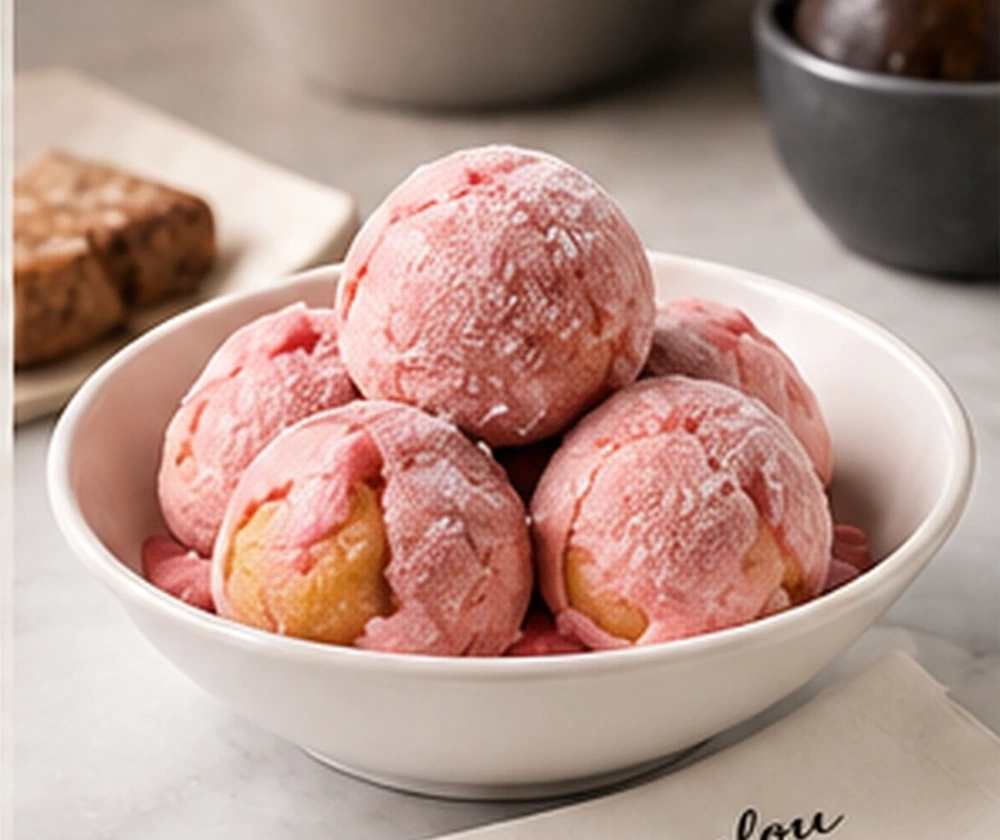
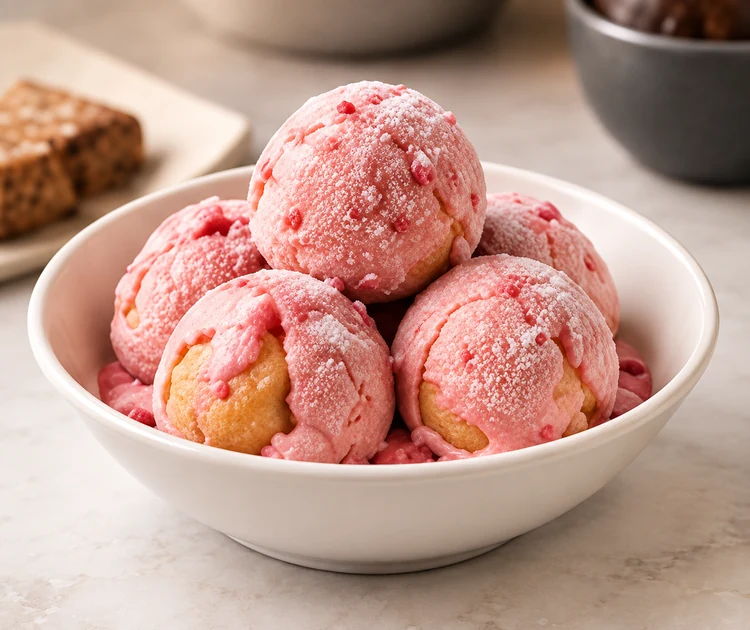
Replace Chilly and Lotus base preview images

diff --git a/app/src/screens/Configurator.tsx b/app/src/screens/Configurator.tsx
@@ -31,6 +31,14 @@ export function Configurator() {
   const chocObj = chocolates.find((c) => c.id === cfg.choc) ?? null;
   const baseObj = bases.find((b) => b.id === cfg.base) ?? null;
 
+  // In the base-selection step, Chilly and Lotus use their dedicated
+  // family hero images. This keeps the two base previews visually clean
+  // while preserving chocolate-specific images on all following steps.
+  const previewCfg =
+    step === 3 && (cfg.base === "chilly" || cfg.base === "lotus")
+      ? { ...cfg, choc: null }
+      : cfg;
+
   const toppingNames = cfg.toppings.length
     ? cfg.toppings
         .map((tid) => toppingGroups.flatMap((g) => g.items).find((it) => it.id === tid)?.name)
@@ -55,7 +63,7 @@ export function Configurator() {
         </div>
       )}
 
-      <ProfiterolePreview cfg={cfg} variant={step === 5 ? "hero" : "compact"} />
+      <ProfiterolePreview cfg={previewCfg} variant={step === 5 ? "hero" : "compact"} />
 
       {step === 1 && (
         <div className="flex flex-col">
